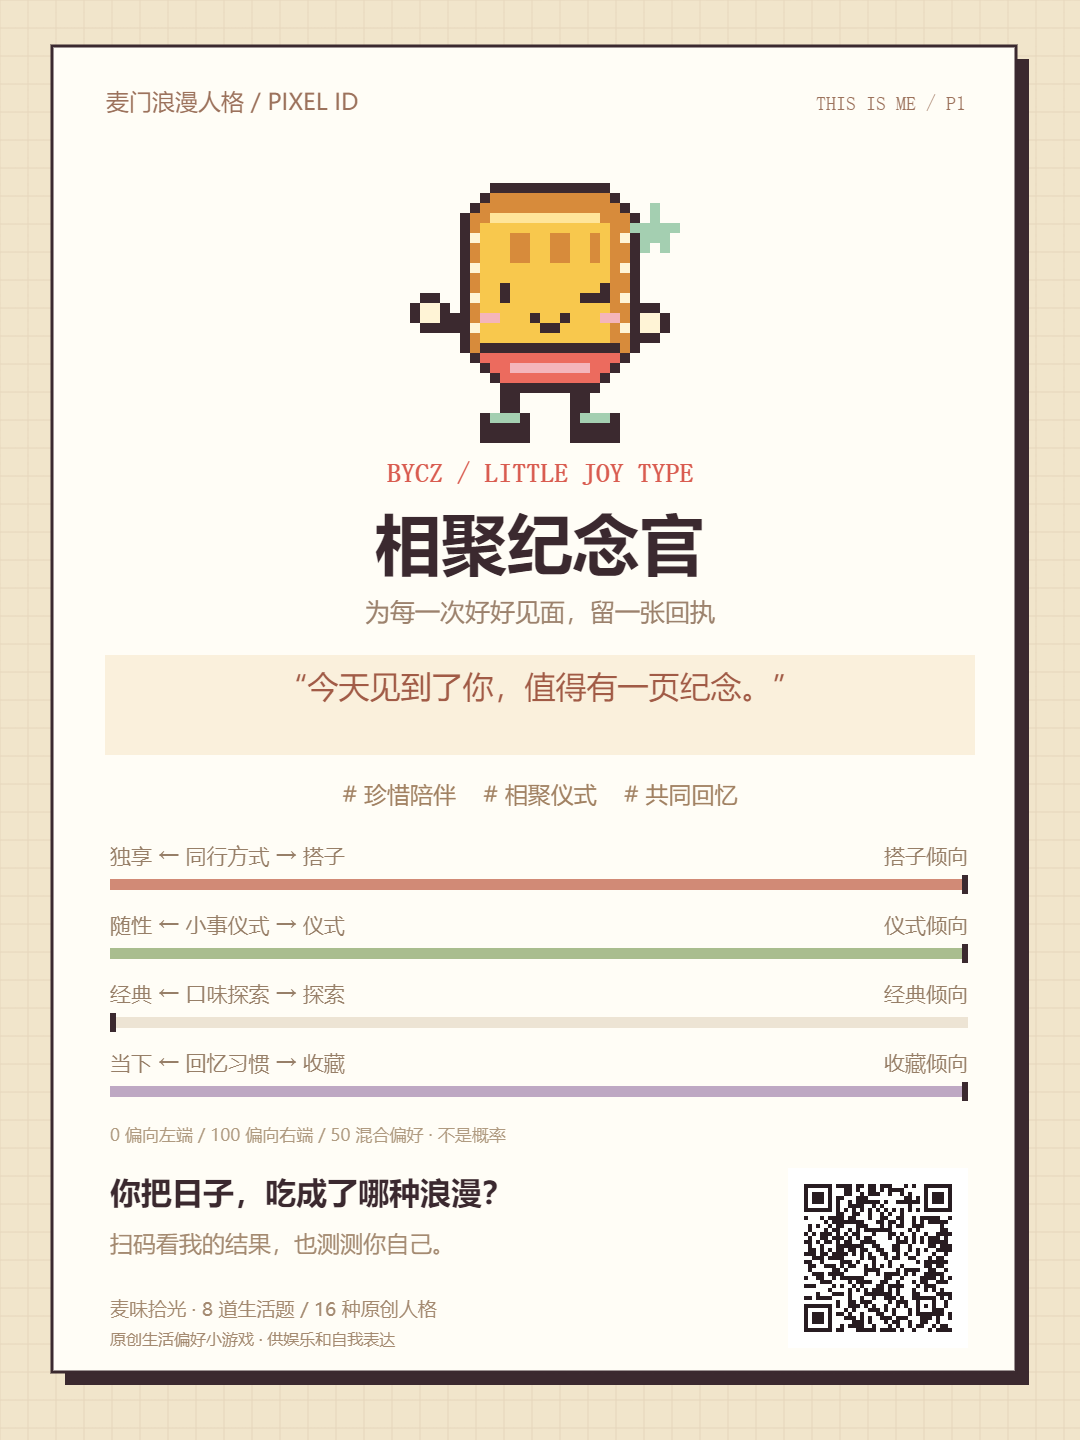
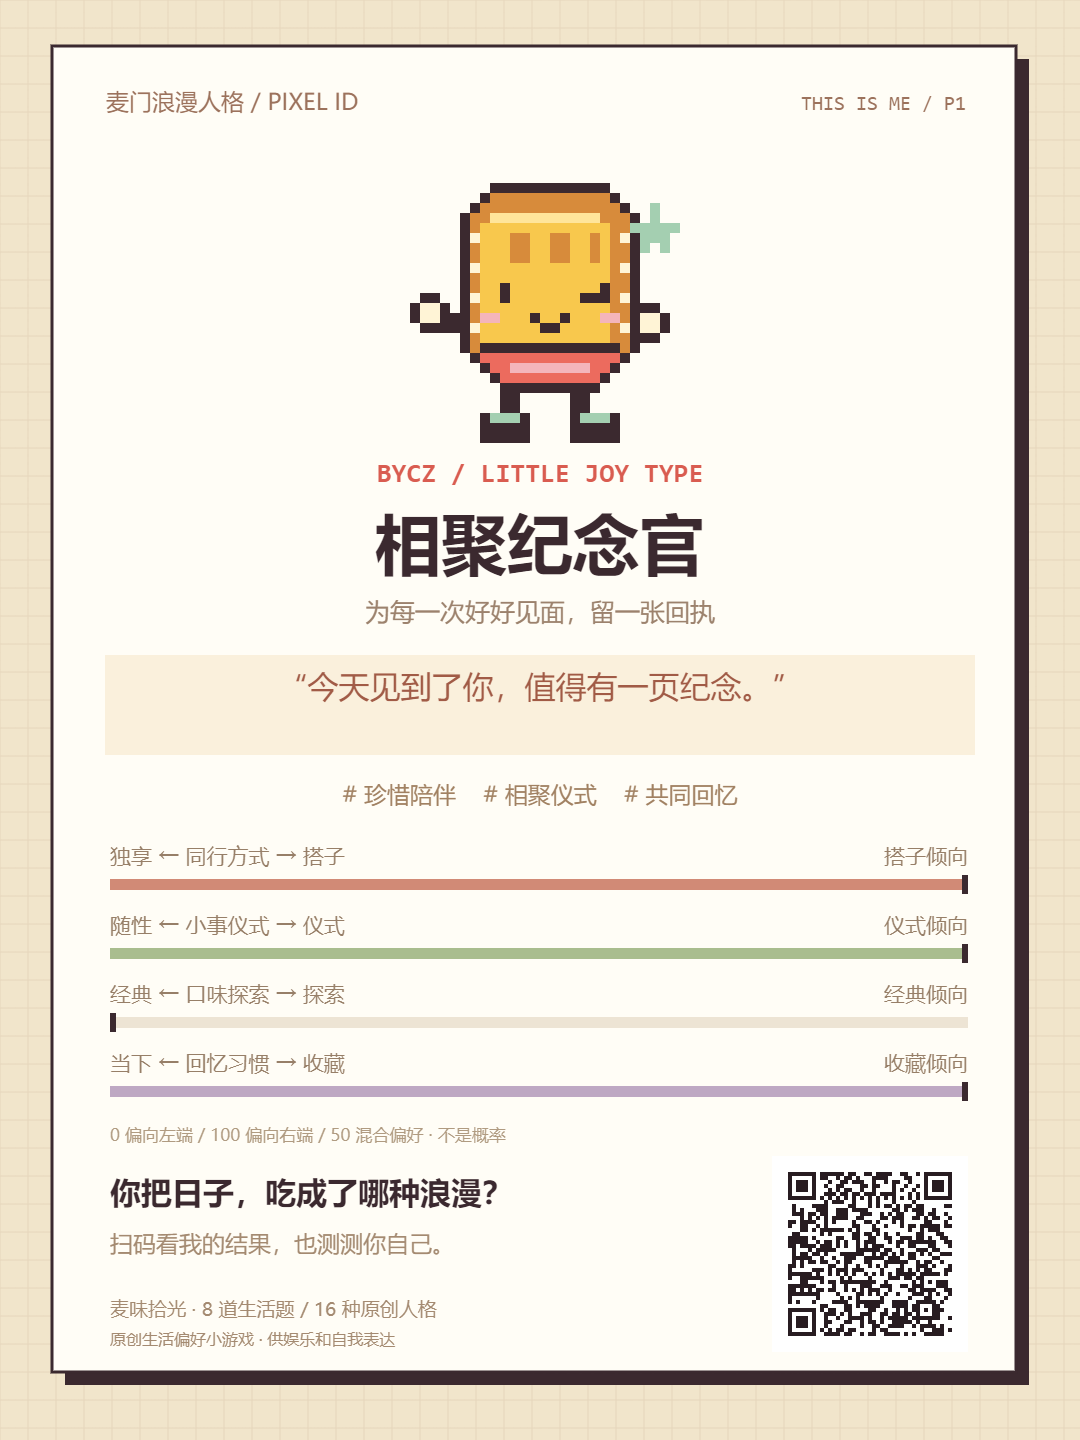
Improve QR scan compatibility for personality sharing

Changed region(s): [[0.7333, 0.8125, 0.8861, 0.9375], [0.3361, 0.3125, 0.6417, 0.3438], [0.7639, 0.0625, 0.8556, 0.0938]]

diff --git a/index.html b/index.html
@@ -294,7 +294,7 @@ button.kp-type-tile { cursor: pointer; }
 .kp-link-input input:focus, .kp-link-input textarea:focus, .kp-share-url input:focus, .kp-share-url textarea:focus { border-color: #c58769; box-shadow: 0 0 0 2px #dba48822; }
 .kp-link-input .kp-btn { flex: 0 0 auto; padding: 7px 10px; margin: 0; box-shadow: none; min-height: 36px; }
 .kp-qr { display: grid; place-items: center; width: fit-content; max-width: 100%; margin: 15px auto 0; padding: 9px; background: #fff; border: 1px solid #e5d9c3; }
-.kp-qr svg, .kp-qr img, .kp-qr canvas { display: block; width: 96px; height: 96px; max-width: 100%; image-rendering: pixelated; }
+.kp-qr svg, .kp-qr img, .kp-qr canvas { display: block; width: 147px; height: 147px; max-width: 100%; image-rendering: pixelated; }
 .kp-qr > small { display: block; text-align: center; font-size: 9px; color: #b4a085; padding-top: 7px; }
 .kp-result-side-note { color: #a79783; font-size: 10px; line-height: 1.9; text-align: center; margin: 1px 5px; }
 .kp-result-side-note a { color: #aa7053; text-underline-offset: 3px; }
@@ -3941,7 +3941,7 @@ var qrcode = function() {
     try { if (result) sessionStorage.setItem(FRIEND_STORE, E.encode(result)); else sessionStorage.removeItem(FRIEND_STORE); } catch (_) {}
   }
   function restoreFriend() { try { return E.decode(sessionStorage.getItem(FRIEND_STORE)); } catch (_) { return null; } }
-  function qr(url) { const code = qrcode(0, 'M'); code.addData(url); code.make(); return code; }
+  function qr(url) { const code = qrcode(0, 'Q'); code.addData(url); code.make(); return code; }
   function qrMarkup(result) {
     return '<div class="kp-qr" aria-label="打开这张结果卡的二维码">' + qr(shareUrl(result)).createSvgTag({ cellSize: 3, margin: 12, scalable: true }) + '<small>扫码看结果 · 测测自己</small></div>';
   }
@@ -4100,7 +4100,7 @@ var qrcode = function() {
         c.fillStyle = '#ede4d4'; c.fillRect(110, y + 15, 858, 11); c.fillStyle = colors[i]; c.fillRect(110, y + 15, 858 * score / 100, 11); c.fillStyle = ink; c.fillRect(110 + Math.min(852, 852 * score / 100), y + 11, 6, 19);
       });
       c.font = '17px "Microsoft YaHei",sans-serif'; c.fillStyle = '#b09b81'; c.fillText('0 偏向左端 / 100 偏向右端 / 50 混合偏好 · 不是概率', 110, 1141);
-      const code = qr(shareUrl(result)), cells = code.getModuleCount(), module = 4, box = (cells + 8) * module, qx = 968 - box, qy = 1168;
+      const code = qr(shareUrl(result)), cells = code.getModuleCount(), module = 4, box = (cells + 8) * module, qx = 968 - box, qy = 1156;
       c.fillStyle = '#fff'; c.fillRect(qx, qy, box, box); c.fillStyle = '#281c21';
       for (let r = 0; r < cells; r++) for (let col = 0; col < cells; col++) if (code.isDark(r, col)) c.fillRect(qx + (col + 4) * module, qy + (r + 4) * module, module, module);
       c.fillStyle = ink; c.font = 'bold 31px "Microsoft YaHei",sans-serif'; c.fillText('你把日子，吃成了哪种浪漫？', 110, 1204);

diff --git a/persona-ui.js b/persona-ui.js
@@ -35,7 +35,7 @@
     try { if (result) sessionStorage.setItem(FRIEND_STORE, E.encode(result)); else sessionStorage.removeItem(FRIEND_STORE); } catch (_) {}
   }
   function restoreFriend() { try { return E.decode(sessionStorage.getItem(FRIEND_STORE)); } catch (_) { return null; } }
-  function qr(url) { const code = qrcode(0, 'M'); code.addData(url); code.make(); return code; }
+  function qr(url) { const code = qrcode(0, 'Q'); code.addData(url); code.make(); return code; }
   function qrMarkup(result) {
     return '<div class="kp-qr" aria-label="打开这张结果卡的二维码">' + qr(shareUrl(result)).createSvgTag({ cellSize: 3, margin: 12, scalable: true }) + '<small>扫码看结果 · 测测自己</small></div>';
   }
@@ -194,7 +194,7 @@
         c.fillStyle = '#ede4d4'; c.fillRect(110, y + 15, 858, 11); c.fillStyle = colors[i]; c.fillRect(110, y + 15, 858 * score / 100, 11); c.fillStyle = ink; c.fillRect(110 + Math.min(852, 852 * score / 100), y + 11, 6, 19);
       });
       c.font = '17px "Microsoft YaHei",sans-serif'; c.fillStyle = '#b09b81'; c.fillText('0 偏向左端 / 100 偏向右端 / 50 混合偏好 · 不是概率', 110, 1141);
-      const code = qr(shareUrl(result)), cells = code.getModuleCount(), module = 4, box = (cells + 8) * module, qx = 968 - box, qy = 1168;
+      const code = qr(shareUrl(result)), cells = code.getModuleCount(), module = 4, box = (cells + 8) * module, qx = 968 - box, qy = 1156;
       c.fillStyle = '#fff'; c.fillRect(qx, qy, box, box); c.fillStyle = '#281c21';
       for (let r = 0; r < cells; r++) for (let col = 0; col < cells; col++) if (code.isDark(r, col)) c.fillRect(qx + (col + 4) * module, qy + (r + 4) * module, module, module);
       c.fillStyle = ink; c.font = 'bold 31px "Microsoft YaHei",sans-serif'; c.fillText('你把日子，吃成了哪种浪漫？', 110, 1204);

diff --git a/persona.css b/persona.css
@@ -193,7 +193,7 @@ button.kp-type-tile { cursor: pointer; }
 .kp-link-input input:focus, .kp-link-input textarea:focus, .kp-share-url input:focus, .kp-share-url textarea:focus { border-color: #c58769; box-shadow: 0 0 0 2px #dba48822; }
 .kp-link-input .kp-btn { flex: 0 0 auto; padding: 7px 10px; margin: 0; box-shadow: none; min-height: 36px; }
 .kp-qr { display: grid; place-items: center; width: fit-content; max-width: 100%; margin: 15px auto 0; padding: 9px; background: #fff; border: 1px solid #e5d9c3; }
-.kp-qr svg, .kp-qr img, .kp-qr canvas { display: block; width: 96px; height: 96px; max-width: 100%; image-rendering: pixelated; }
+.kp-qr svg, .kp-qr img, .kp-qr canvas { display: block; width: 147px; height: 147px; max-width: 100%; image-rendering: pixelated; }
 .kp-qr > small { display: block; text-align: center; font-size: 9px; color: #b4a085; padding-top: 7px; }
 .kp-result-side-note { color: #a79783; font-size: 10px; line-height: 1.9; text-align: center; margin: 1px 5px; }
 .kp-result-side-note a { color: #aa7053; text-underline-offset: 3px; }

diff --git a/docs/personality-validation.md b/docs/personality-validation.md
@@ -26,7 +26,11 @@
 
 ## 分享图和二维码
 
-真实下载的 PNG 为 1080 × 1440，已检查文字、角色及二维码排版。OpenCV QRCodeDetector 成功解码，内容为：
+真实下载的 PNG 为 1080 × 1440，已检查文字、角色及二维码排版。末轮补查发现 M 级纠错下一个样本可由 ZXing 解码，但 OpenCV 在原始尺度检测失败；已将页面与导出图统一提高为 Q 级纠错，页面二维码放大至 147px，并保留四模块留白。
+
+按 16 个角色各取一组四维端点答案，通过真实页面分别下载 16 张 PNG；每张均由 OpenCV QRCodeDetector 与 zxing-cpp 独立解出一致的原站结果链接。另对页面二维码截图完成同样的双解码检查；全部通过。这覆盖 16 个实际导出样本，不表示穷举了所有可能的二维码内容或验证了各社媒扫码器。二维码调整后再跑完整主流程 39 项检查通过。
+
+实际导出的「相聚纪念官」样本解码内容为：
 
 https://17-log.github.io/mc-keeps/#persona?v=p1&r=p1.BYCZ.2s2s002s
 
